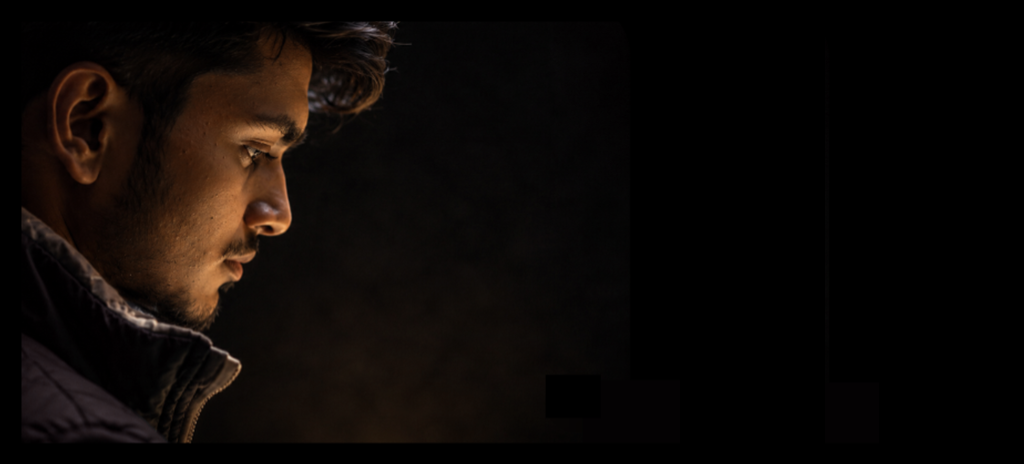
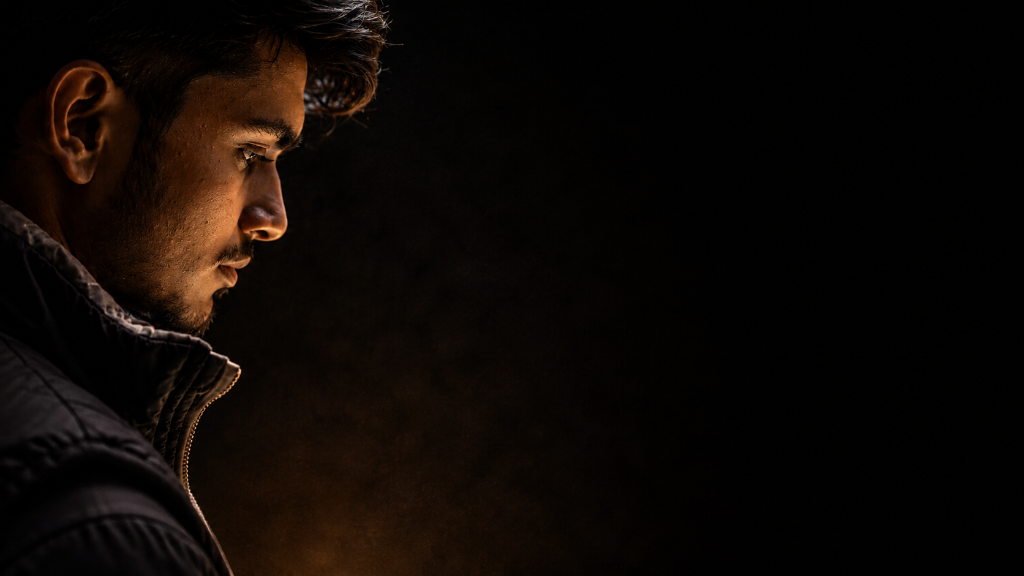
feat: replace background with crisp 16:9 photo, remove square text container, and improve navbar contrast

Changed region(s): [[0.0, 0.0, 0.5, 1.0]]

diff --git a/src/components/sections/hero.tsx b/src/components/sections/hero.tsx
@@ -25,30 +25,33 @@ export function Hero() {
   };
 
   return (
-    <section className="relative min-h-[92vh] lg:min-h-screen flex flex-col justify-between pt-24 lg:pt-28 pb-12 bg-[#0d0905] overflow-hidden">
+    <section className="relative min-h-[92vh] lg:min-h-screen flex flex-col justify-between pt-28 lg:pt-32 pb-14 bg-[#0a0705] overflow-hidden">
       
-      {/* Background Profile Photo (Framed on Left Side with Dramatic Backlight) */}
+      {/* Background Profile Photo (Full Widescreen 16:9 Framed on Left Side) */}
       <div className="absolute inset-0 z-0 overflow-hidden select-none">
-        {/* Left Side Face Photo */}
+        {/* Widescreen Face Photo */}
         <img 
           src="/hero-bg.png" 
           alt="Saksham Gupta Profile" 
-          className="absolute left-0 top-0 w-full sm:w-[85%] lg:w-[62%] xl:w-[58%] h-full object-cover object-[15%_center] lg:object-left opacity-95 filter brightness-105 contrast-105"
+          className="absolute left-0 top-0 w-full sm:w-[88%] lg:w-[64%] xl:w-[60%] h-full object-cover object-[12%_center] lg:object-left opacity-95 filter brightness-105 contrast-105"
         />
         
-        {/* Gradient Blend Overlays: Fades photo seamlessly from left into dark espresso on the right */}
-        <div className="absolute inset-0 bg-gradient-to-r from-transparent via-[#0d0905]/40 via-35% to-[#0d0905] lg:from-transparent lg:via-[#0d0905]/65 lg:via-42% lg:to-[#0d0905]" />
-        <div className="absolute inset-0 bg-gradient-to-b from-[#0d0905]/80 via-transparent via-40% to-[#0d0905]" />
+        {/* Gradient Blend Overlays: Fades photo smoothly into deep espresso on the right */}
+        <div className="absolute inset-0 bg-gradient-to-r from-transparent via-[#0a0705]/30 via-35% to-[#0a0705] lg:from-transparent lg:via-[#0a0705]/70 lg:via-42% lg:to-[#0a0705]" />
+        <div className="absolute inset-0 bg-gradient-to-b from-[#0a0705]/80 via-transparent via-45% to-[#0a0705]" />
         
+        {/* Warm Ambient Radial Glow behind Text */}
+        <div className="absolute right-0 top-1/2 -translate-y-1/2 w-full lg:w-1/2 h-full bg-radial from-[#ffca78]/10 via-transparent to-transparent pointer-events-none" />
+
         {/* Bottom Fade Transition into Parchment Section below */}
-        <div className="absolute bottom-0 inset-x-0 h-24 bg-gradient-to-t from-[#faf7f3] via-[#faf7f3]/30 to-transparent pointer-events-none" />
+        <div className="absolute bottom-0 inset-x-0 h-28 bg-gradient-to-t from-[#faf7f3] via-[#faf7f3]/40 to-transparent pointer-events-none" />
       </div>
 
       <div className="container mx-auto px-6 md:px-12 relative z-10 flex flex-col lg:flex-row items-center justify-end my-auto">
         
-        {/* Right Column: Editorial Headline & Copy (Positioned on the Right so Face is Unobstructed) */}
+        {/* Right Column: Floating Editorial Headline & Copy (No Square Background, Face Completely Clear) */}
         <motion.div 
-          className="w-full lg:w-[54%] xl:w-[50%] lg:ml-auto flex flex-col items-start text-left bg-[#faf7f3]/95 border-[3px] border-[#2b1a05] rounded-3xl p-7 sm:p-9 md:p-11 shadow-[10px_10px_0_#2b1a05] backdrop-blur-md"
+          className="w-full lg:w-[52%] xl:w-[48%] lg:ml-auto flex flex-col items-start text-left"
           variants={containerVariants}
           initial="hidden"
           animate="visible"
@@ -61,7 +64,7 @@ export function Hero() {
             </div>
             
             {/* Handwritten cursive note */}
-            <span className="font-hand text-base md:text-lg text-[#2b1a05] rotate-[-2deg] font-bold">
+            <span className="font-hand text-base md:text-lg text-[#ffca78] rotate-[-2deg] font-bold">
               ✦ crafting clean, scalable systems
             </span>
           </motion.div>
@@ -69,24 +72,24 @@ export function Hero() {
           {/* Headline in Playfair Display with Italic Accents */}
           <motion.h1 
             variants={itemVariants} 
-            className="text-3xl sm:text-4xl md:text-5xl xl:text-5xl font-serif text-[#2b1a05] leading-[1.15] tracking-tight mb-4 font-medium"
+            className="text-3xl sm:text-4xl md:text-5xl xl:text-6xl font-serif text-[#faf7f3] leading-[1.12] tracking-tight mb-5 font-medium drop-shadow-md"
           >
-            Turning <span className="italic font-serif font-normal text-[#2b1a05] underline decoration-[#ffca78] decoration-4 underline-offset-6">complex ideas</span> into <span className="italic font-serif font-normal">scalable digital products.</span>
+            Turning <span className="italic font-serif font-normal text-[#ffca78] underline decoration-[#ffca78] decoration-4 underline-offset-8">complex ideas</span> into <span className="italic font-serif font-normal text-[#faf7f3]">scalable digital products.</span>
           </motion.h1>
 
           {/* Subtitle / Intro */}
           <motion.p 
             variants={itemVariants} 
-            className="text-sm sm:text-base md:text-lg text-[#2b1a05]/85 max-w-[540px] mb-6 md:mb-8 leading-relaxed font-normal"
+            className="text-base sm:text-lg text-[#faf7f3]/90 max-w-[540px] mb-7 md:mb-9 leading-relaxed font-normal drop-shadow-xs"
           >
-            Hi, I’m <span className="font-semibold text-[#2b1a05]">Saksham Gupta</span>. I blend strategic system architecture, AI integration, and sleek modern UI engineering to build products that solve real-world problems.
+            Hi, I’m <span className="font-semibold text-[#ffca78]">Saksham Gupta</span>. I blend strategic system architecture, AI integration, and sleek modern UI engineering to build products that solve real-world problems.
           </motion.p>
 
           {/* Action CTAs with Neobrutalist Shadow */}
-          <motion.div variants={itemVariants} className="flex flex-wrap items-center gap-3.5">
+          <motion.div variants={itemVariants} className="flex flex-wrap items-center gap-4">
             <a 
               href="#projects"
-              className="inline-flex items-center gap-2 px-6 py-3 rounded-full border-[2.5px] border-[#2b1a05] bg-[#2b1a05] text-[#ffca78] text-xs sm:text-sm font-mono font-semibold uppercase tracking-wider shadow-[3.5px_3.5px_0_#ffca78] hover:shadow-[5px_5px_0_#ffca78] hover:-translate-y-0.5 active:translate-y-0 active:shadow-none transition-all duration-200"
+              className="inline-flex items-center gap-2.5 px-6 sm:px-7 py-3.5 rounded-full border-[2.5px] border-[#2b1a05] bg-[#ffca78] text-[#2b1a05] text-xs sm:text-sm font-mono font-bold uppercase tracking-wider shadow-[4px_4px_0_#2b1a05] hover:bg-[#faf7f3] hover:shadow-[6px_6px_0_#2b1a05] hover:-translate-y-0.5 active:translate-y-0 active:shadow-none transition-all duration-200"
             >
               <span>Explore Works</span>
               <ArrowRight className="w-4 h-4" />
@@ -96,26 +99,26 @@ export function Hero() {
               href="/resume.pdf" 
               target="_blank" 
               rel="noopener noreferrer"
-              className="inline-flex items-center gap-2 px-5 py-3 rounded-full border-[2.5px] border-[#2b1a05] bg-[#efe9da] text-[#2b1a05] text-xs sm:text-sm font-mono font-semibold uppercase tracking-wider shadow-[3.5px_3.5px_0_#2b1a05] hover:shadow-[5px_5px_0_#2b1a05] hover:-translate-y-0.5 active:translate-y-0 active:shadow-none transition-all duration-200"
+              className="inline-flex items-center gap-2 px-6 py-3.5 rounded-full border-[2.5px] border-[#faf7f3]/40 bg-[#faf7f3]/10 backdrop-blur-xs text-[#faf7f3] text-xs sm:text-sm font-mono font-bold uppercase tracking-wider shadow-[3.5px_3.5px_0_rgba(0,0,0,0.5)] hover:border-[#ffca78] hover:text-[#ffca78] hover:bg-[#faf7f3]/20 hover:-translate-y-0.5 active:translate-y-0 active:shadow-none transition-all duration-200"
             >
               <span>Resume PDF</span>
             </a>
           </motion.div>
 
           {/* Feature Micro-Badges */}
-          <motion.div variants={itemVariants} className="mt-6 pt-4 border-t border-[#2b1a05]/15 flex flex-wrap items-center gap-3 text-xs font-mono text-[#2b1a05]/75 font-medium">
+          <motion.div variants={itemVariants} className="mt-8 pt-5 border-t border-[#faf7f3]/20 flex flex-wrap items-center gap-3 text-xs font-mono text-[#faf7f3]/80 font-medium">
             <div className="flex items-center gap-1.5">
-              <Code2 className="w-3.5 h-3.5 text-[#2b1a05]" />
+              <Code2 className="w-3.5 h-3.5 text-[#ffca78]" />
               <span>Full-Stack Architecture</span>
             </div>
             <span>•</span>
             <div className="flex items-center gap-1.5">
-              <Sparkles className="w-3.5 h-3.5 text-[#2b1a05]" />
+              <Sparkles className="w-3.5 h-3.5 text-[#ffca78]" />
               <span>AI Integration</span>
             </div>
             <span>•</span>
             <div className="flex items-center gap-1.5">
-              <Globe className="w-3.5 h-3.5 text-[#2b1a05]" />
+              <Globe className="w-3.5 h-3.5 text-[#ffca78]" />
               <span>Based in India</span>
             </div>
           </motion.div>
@@ -126,6 +129,7 @@ export function Hero() {
     </section>
   );
 }
+
 
 
 

diff --git a/src/components/sections/nav.tsx b/src/components/sections/nav.tsx
@@ -34,26 +34,31 @@ export function Navigation() {
       className={cn(
         "fixed top-0 inset-x-0 z-50 transition-all duration-300",
         scrolled 
-          ? "bg-[#faf7f3]/90 backdrop-blur-md border-b-[2.5px] border-[#2b1a05] py-3.5 shadow-sm" 
+          ? "bg-[#faf7f3]/95 backdrop-blur-md border-b-[2.5px] border-[#2b1a05] py-3.5 shadow-sm" 
           : "bg-transparent py-5",
         isOpen ? "bg-[#faf7f3]" : ""
       )}
     >
       <div className="container mx-auto px-6 md:px-12 flex items-center justify-between">
-        <a href="#" className="text-xl font-serif font-bold tracking-tight text-[#2b1a05] flex items-center gap-3 relative z-50 group">
+        <a href="#" className="text-xl font-serif font-bold tracking-tight flex items-center gap-3 relative z-50 group">
           <div className="w-10 h-10 rounded-full border-[2px] border-[#2b1a05] bg-[#ffca78] flex items-center justify-center shadow-[2px_2px_0_#2b1a05] overflow-hidden group-hover:rotate-12 transition-transform">
             <img src="/logo.png" alt="Logo" className="w-6 h-6 object-contain filter brightness-0" />
           </div>
-          <span className="font-serif italic font-medium">Saksham Gupta</span>
+          <span className={cn(
+            "font-serif italic font-semibold text-lg sm:text-xl transition-colors duration-300",
+            scrolled || isOpen ? "text-[#2b1a05]" : "text-[#faf7f3] drop-shadow-sm"
+          )}>
+            Saksham Gupta
+          </span>
         </a>
 
-        {/* Desktop Nav */}
-        <nav className="hidden md:flex items-center gap-2 bg-[#efe9da]/80 border-[2px] border-[#2b1a05]/20 rounded-full p-1.5 backdrop-blur-sm shadow-[2px_2px_0_rgba(43,26,5,0.08)]">
+        {/* Desktop Nav: High Contrast Parchment Pill Container */}
+        <nav className="hidden md:flex items-center gap-1.5 bg-[#faf7f3]/95 border-[2.5px] border-[#2b1a05] rounded-full p-1.5 backdrop-blur-md shadow-[3.5px_3.5px_0_#2b1a05]">
           {navItems.map((item) => (
             <a
               key={item.name}
               href={item.href}
-              className="text-xs font-mono font-medium tracking-wider uppercase text-[#2b1a05] hover:text-[#2b1a05] hover:bg-[#ffca78] transition-all rounded-full px-4 py-2 border border-transparent hover:border-[#2b1a05]/30"
+              className="text-xs font-mono font-bold tracking-wider uppercase text-[#2b1a05] hover:bg-[#ffca78] transition-all rounded-full px-4 py-2 border border-transparent hover:border-[#2b1a05]/30"
             >
               {item.name}
             </a>
@@ -63,15 +68,15 @@ export function Navigation() {
         {/* Get in Touch CTA */}
         <a 
           href="#contact"
-          className="hidden md:inline-flex items-center gap-2 px-6 py-2 rounded-full text-xs font-mono font-bold uppercase tracking-wider bg-[#2b1a05] hover:bg-[#ffca78] text-[#ffca78] hover:text-[#2b1a05] border-[2px] border-[#2b1a05] shadow-[3px_3px_0_#2b1a05] hover:shadow-[5px_5px_0_#2b1a05] hover:-translate-y-0.5 transition-all duration-200 relative z-50"
+          className="hidden md:inline-flex items-center gap-2 px-6 py-2.5 rounded-full text-xs font-mono font-bold uppercase tracking-wider bg-[#ffca78] hover:bg-[#faf7f3] text-[#2b1a05] border-[2.5px] border-[#2b1a05] shadow-[3.5px_3.5px_0_#2b1a05] hover:shadow-[5.5px_5.5px_0_#2b1a05] hover:-translate-y-0.5 transition-all duration-200 relative z-50"
         >
           <span>Get in Touch</span>
-          <span className="w-1.5 h-1.5 rounded-full bg-emerald-400" />
+          <span className="w-2 h-2 rounded-full bg-emerald-600 animate-ping" />
         </a>
 
         {/* Mobile Toggle */}
         <button 
-          className="md:hidden p-2 rounded-full border-[2px] border-[#2b1a05] bg-[#ffca78] text-[#2b1a05] shadow-[2px_2px_0_#2b1a05] relative z-50"
+          className="md:hidden p-2 rounded-full border-[2px] border-[#2b1a05] bg-[#ffca78] text-[#2b1a05] shadow-[2px_2px_0_#2b1a05] relative z-50 cursor-pointer"
           onClick={() => setIsOpen(!isOpen)}
         >
           {isOpen ? <X className="w-5 h-5" /> : <Menu className="w-5 h-5" />}
@@ -90,7 +95,7 @@ export function Navigation() {
               key={item.name}
               href={item.href}
               onClick={() => setIsOpen(false)}
-              className="text-sm font-mono uppercase tracking-widest font-semibold text-[#2b1a05] hover:bg-[#ffca78] p-3 rounded-xl border border-[#2b1a05]/10 transition-colors"
+              className="text-sm font-mono uppercase tracking-widest font-bold text-[#2b1a05] hover:bg-[#ffca78] p-3 rounded-xl border border-[#2b1a05]/15 transition-colors"
             >
               {item.name}
             </a>
@@ -100,11 +105,12 @@ export function Navigation() {
             onClick={() => setIsOpen(false)}
             className="inline-block text-center w-full px-5 py-3 mt-2 rounded-full text-xs font-mono font-bold uppercase tracking-widest bg-[#2b1a05] text-[#ffca78] border-[2px] border-[#2b1a05] shadow-[3px_3px_0_#2b1a05]"
           >
-            Get in Touch
+            Get in Touch ✦
           </a>
         </motion.div>
       )}
     </motion.header>
   );
 }
+
 
